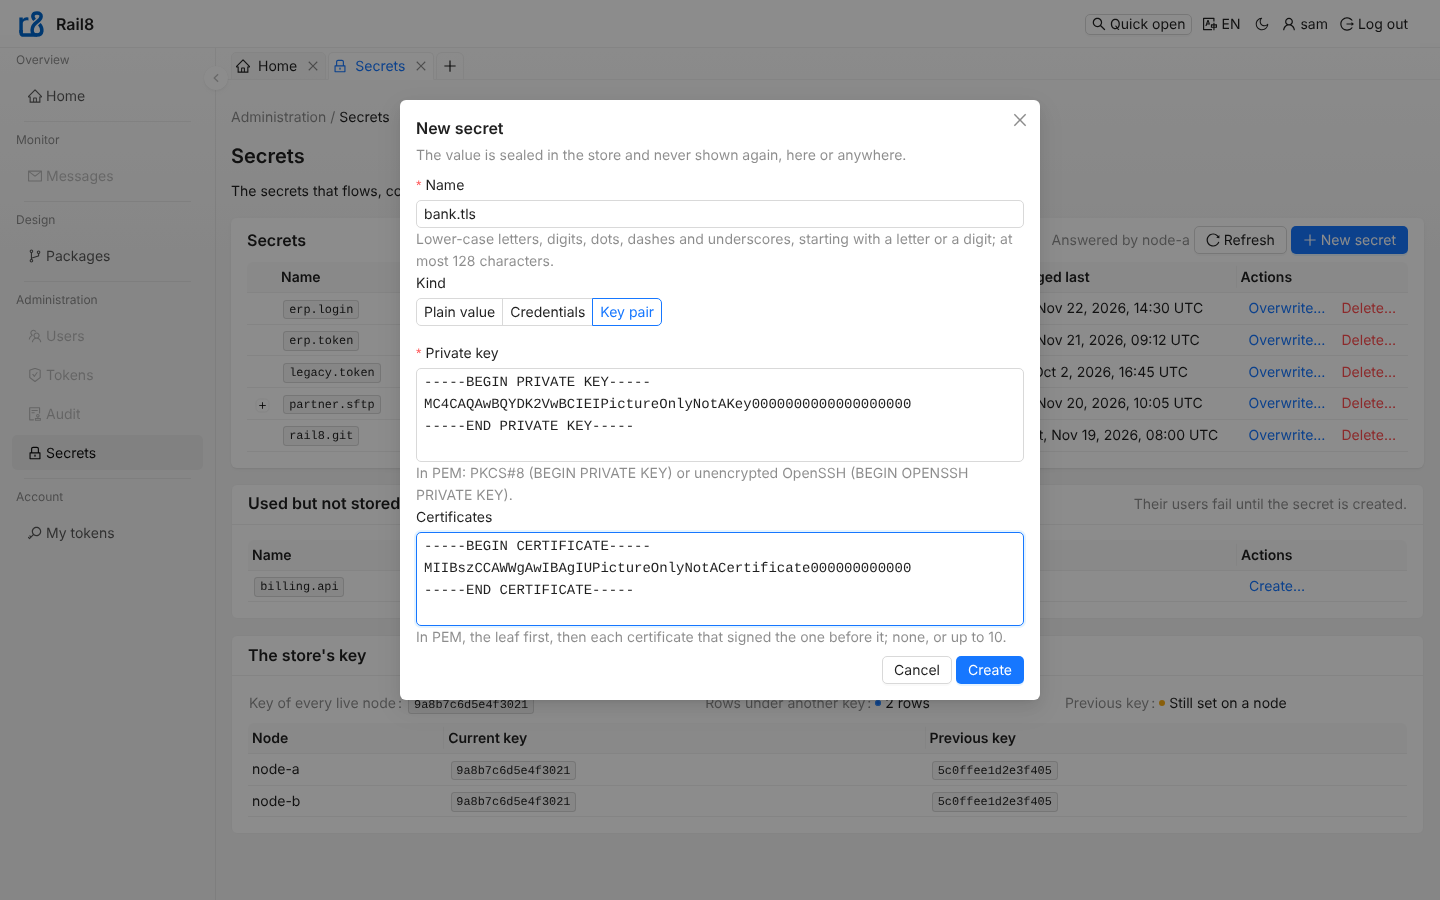
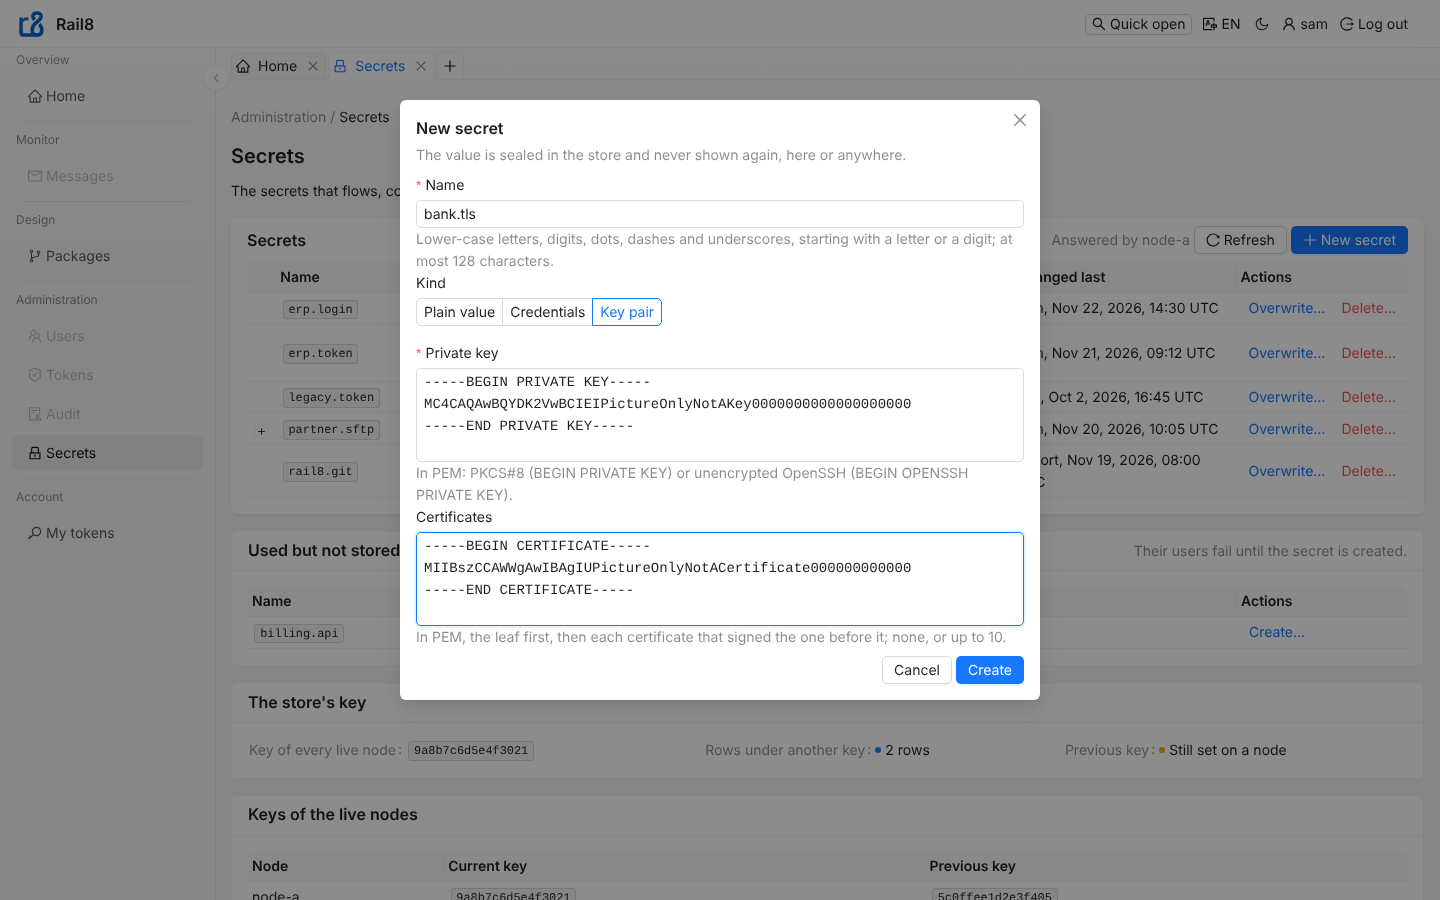
Show each secret's scope, split the key's state into two cards, and do not ask for the value again after a write the node could not read back
Claude-Session: https://claude.ai/code/session_018sN5AVM2YaNUBtYAbSDtF9

diff --git a/ui/src/secrets/SecretDialog.tsx b/ui/src/secrets/SecretDialog.tsx
@@ -30,7 +30,7 @@ const certificatesOf = (text: string) => {
   return blocks.length > 0 ? blocks : text.trim() === '' ? [] : [text];
 };
 
-/** What the fields hold while the dialog is open; every one is emptied once the form is sent or closed. */
+/** What the fields hold while the dialog is open: emptied once the form is sent, and gone with the dialog once it is closed. */
 interface Typed {
   value: string;
   user: string;
@@ -56,18 +56,13 @@ export function SecretDialog({ api, name: given, kinds = KINDS, overwrite = fals
   const [kind, setKind] = useState<SecretKind>(kinds[0] ?? 'value');
   const [typed, setTyped] = useState<Typed>(EMPTY);
   const [sending, setSending] = useState(false);
-  const [refused, setRefused] = useState<{ text: string; field?: string } | null>(null);
+  const [refused, setRefused] = useState<{ text: string; code?: string; field?: string } | null>(null);
   const id = (field: string) => `rail8-secret-${field}`;
 
   const nameValid = name.length <= NAME_MAX && NAME.test(name);
   const complete =
     kind === 'value' ? typed.value !== '' : kind === 'credentials' ? typed.user !== '' && typed.password !== '' : typed.privateKey.trim() !== '';
   const set = (field: keyof Typed) => (event: { target: { value: string } }) => setTyped((now) => ({ ...now, [field]: event.target.value }));
-
-  const close = (written: SecretEntry | null) => {
-    setTyped(EMPTY);
-    onClose(written);
-  };
 
   const send = async () => {
     const value: SecretValue =
@@ -80,10 +75,11 @@ export function SecretDialog({ api, name: given, kinds = KINDS, overwrite = fals
     setSending(true);
     setRefused(null);
     try {
-      close(overwrite ? await api.overwrite(name, value) : await api.create(name, value));
+      onClose(overwrite ? await api.overwrite(name, value) : await api.create(name, value));
     } catch (error) {
-      const field = error instanceof SecretsError && error.code === 'invalid' ? refusalOf(error.body).values.field : undefined;
-      setRefused({ text: error instanceof Error ? error.message : String(error), ...(typeof field === 'string' ? { field } : {}) });
+      const code = error instanceof SecretsError ? error.code : undefined;
+      const field = error instanceof SecretsError && code === 'invalid' ? refusalOf(error.body).values.field : undefined;
+      setRefused({ text: error instanceof Error ? error.message : String(error), ...(code === undefined ? {} : { code }), ...(typeof field === 'string' ? { field } : {}) });
       setSending(false);
     }
   };
@@ -99,10 +95,10 @@ export function SecretDialog({ api, name: given, kinds = KINDS, overwrite = fals
   return (
     <MountedModal
       title={overwrite ? t('secrets.overwrite.title', { name }) : t('secrets.new')}
-      onCancel={sending ? undefined : () => close(null)}
+      onCancel={sending ? undefined : () => onClose(null)}
       width={640}
       footer={[
-        <Button key="cancel" disabled={sending} onClick={() => close(null)}>
+        <Button key="cancel" disabled={sending} onClick={() => onClose(null)}>
           {t('frame.cancel')}
         </Button>,
         <Button key="write" type="primary" loading={sending} disabled={!nameValid || !complete} onClick={() => void send()}>
@@ -119,7 +115,8 @@ export function SecretDialog({ api, name: given, kinds = KINDS, overwrite = fals
             description={
               <Flex vertical>
                 <span>{refused.text}</span>
-                <Typography.Text type="secondary">{t('secrets.enterAgain')}</Typography.Text>
+                {/* a write that committed is in force: it must not be sent again */}
+                {refused.code !== 'written-unread' && <Typography.Text type="secondary">{t('secrets.enterAgain')}</Typography.Text>}
               </Flex>
             }
           />

diff --git a/ui/src/secrets/SecretList.tsx b/ui/src/secrets/SecretList.tsx
@@ -92,8 +92,9 @@ export function SecretList({ api }: { api: SecretsApi }) {
           ]}
           expandable={{ rowExpandable: (entry) => entry.keyPair !== undefined, expandedRowRender: (entry) => <KeyPairFacts entry={entry} /> }}
           columns={[
-            { title: t('secrets.name'), dataIndex: 'name', render: (_, entry) => <Typography.Text code>{entry.name}</Typography.Text> },
+            { title: t('secrets.name'), dataIndex: 'name', width: 220, render: (_, entry) => <Typography.Text code>{entry.name}</Typography.Text> },
             { title: t('secrets.kind'), dataIndex: 'kind', width: 150, render: (_, entry) => kindWords(texts, entry.kind) },
+            { title: t('secrets.scope'), dataIndex: 'scope', width: 110, render: (_, entry) => (entry.scope === 'installation' ? t('secrets.scope.installation') : entry.scope) },
             { title: t('secrets.usedBy'), key: 'usedBy', render: (_, entry) => <UsedBy usedBy={entry.usedBy} users={entry.users} /> },
             {
               title: t('secrets.state'),
@@ -155,7 +156,7 @@ export function SecretList({ api }: { api: SecretsApi }) {
             ]}
           />
         </ProCard>
-        <KeyCard state={list.key} />
+        <KeyCards state={list.key} />
       </Flex>
     );
   }
@@ -208,13 +209,13 @@ function KeyPairFacts({ entry }: { entry: SecretEntry }) {
   );
 }
 
-/** The key's state: each live node's key ids, the rows under another key than the common one, and whether a previous key is still set. */
-function KeyCard({ state }: { state: KeyState }) {
+/** The key's state: whether every live node names one key, the rows under another key, and whether a previous key is still set; then each live node's key ids. */
+function KeyCards({ state }: { state: KeyState }) {
   const { t } = useText();
   const keyId = (id: string | null) => (id === null ? '-' : <Typography.Text code>{id}</Typography.Text>);
   return (
-    <ProCard title={<h2>{t('secrets.key')}</h2>} headerBordered>
-      <Flex vertical gap="middle">
+    <>
+      <ProCard title={<h2>{t('secrets.key')}</h2>} headerBordered>
         <Descriptions
           size="small"
           column={3}
@@ -241,6 +242,8 @@ function KeyCard({ state }: { state: KeyState }) {
             },
           ]}
         />
+      </ProCard>
+      <ProCard title={<h2>{t('secrets.key.nodes')}</h2>} headerBordered>
         <Table<NodeKeys>
           aria-label={t('secrets.key.nodes')}
           rowKey="node"
@@ -254,7 +257,7 @@ function KeyCard({ state }: { state: KeyState }) {
             { title: t('secrets.key.previousOf'), key: 'previous', render: (_, node) => keyId(node.previous) },
           ]}
         />
-      </Flex>
-    </ProCard>
+      </ProCard>
+    </>
   );
 }

diff --git a/ui/src/secrets/SecretDialog.browser.test.tsx b/ui/src/secrets/SecretDialog.browser.test.tsx
@@ -2,7 +2,7 @@ import { createRoot, type Root } from 'react-dom/client';
 import { afterEach, describe, expect, test } from 'vitest';
 import { page } from 'vitest/browser';
 import { opened } from '../motion-test';
-import { httpSecretsApi, type SecretEntry, type SecretKind } from './api';
+import { httpSecretsApi, SecretsError, type SecretEntry, type SecretKind, type SecretsApi } from './api';
 import { fakeSecretsNode, type FakeSecrets } from './fake';
 import { SecretDialog } from './SecretDialog';
 
@@ -26,12 +26,12 @@ afterEach(() => {
 });
 
 /** The dialog alone, as a connection's form opens it, over a fake node holding `state`; gives what it was closed with. */
-function show(state: FakeSecrets, props: { name?: string; kinds?: readonly SecretKind[] } = {}) {
+function show(state: FakeSecrets, props: { name?: string; kinds?: readonly SecretKind[] } = {}, api: SecretsApi = httpSecretsApi(fakeSecretsNode(state, 'sam', () => NOW))) {
   const closed: (SecretEntry | null)[] = [];
   host = document.createElement('div');
   document.body.append(host);
   root = createRoot(host);
-  root.render(<SecretDialog api={httpSecretsApi(fakeSecretsNode(state, 'sam', () => NOW))} {...props} onClose={(written) => closed.push(written)} />);
+  root.render(<SecretDialog api={api} {...props} onClose={(written) => closed.push(written)} />);
   return closed;
 }
 
@@ -86,5 +86,18 @@ describe('the form that creates a secret', () => {
     await expect.element(dialog().getByText('The value\'s fields are emptied once the form is sent: enter the value again.')).toBeVisible();
     await expect.element(dialog().getByLabelText('Private key')).toHaveValue('');
     expect(dialog().getByLabelText('Private key').element().closest('.ant-form-item')?.classList.contains('ant-form-item-has-error')).toBe(true);
+  });
+
+  test('after a write the node committed but could not read back, it does not ask for the value again', async () => {
+    const body = { error: 'the change is written, but this node could not read it back', code: 'written-unread', values: {} };
+    const unread = async () => {
+      throw new SecretsError(503, 'written-unread', 'The change is written, but this node could not read it back: it takes effect shortly. Do not send it again.', body);
+    };
+    show(empty(), { name: 'erp.token', kinds: ['value'] }, { ...httpSecretsApi(fakeSecretsNode(empty(), 'sam', () => NOW)), create: unread });
+    await opened(dialog());
+    await dialog().getByLabelText('Value').fill('v');
+    await create().click();
+    await expect.element(dialog().getByText(/Do not send it again\./)).toBeVisible();
+    expect(dialog().getByText(/enter the value again/).query()).toBeNull();
   });
 });

diff --git a/ui/src/secrets/Secrets.browser.test.tsx b/ui/src/secrets/Secrets.browser.test.tsx
@@ -135,7 +135,7 @@ describe('the Secrets screen', () => {
   test('shows a developer each secret with its kind, users, state and last change, a key pair’s facts, the names not stored, the key and the node, and no write', async () => {
     render(seed(), DEVELOPER);
     await expect.element(page.getByRole('heading', { level: 1, name: 'Secrets' })).toBeVisible();
-    await expect.element(rowOf('erp.token')).toMatchTextContent(/Plain value.*Flow orders\/order-in.*Readable.*sam, Nov 20, 2026, 09:00 UTC/);
+    await expect.element(rowOf('erp.token')).toMatchTextContent(/Plain value.*Installation.*Flow orders\/order-in.*Readable.*sam, Nov 20, 2026, 09:00 UTC/);
     await expect.element(rowOf('partner.sftp')).toMatchTextContent(/Key pair.*Connection partner-sftp/);
     await expect.element(rowOf('rail8.git')).toMatchTextContent(/Credentials.*Platform \(git\).*import/);
     await expect.element(rowOf('old.token')).toMatchTextContent(/Plain value.*-.*Unreadable/);
